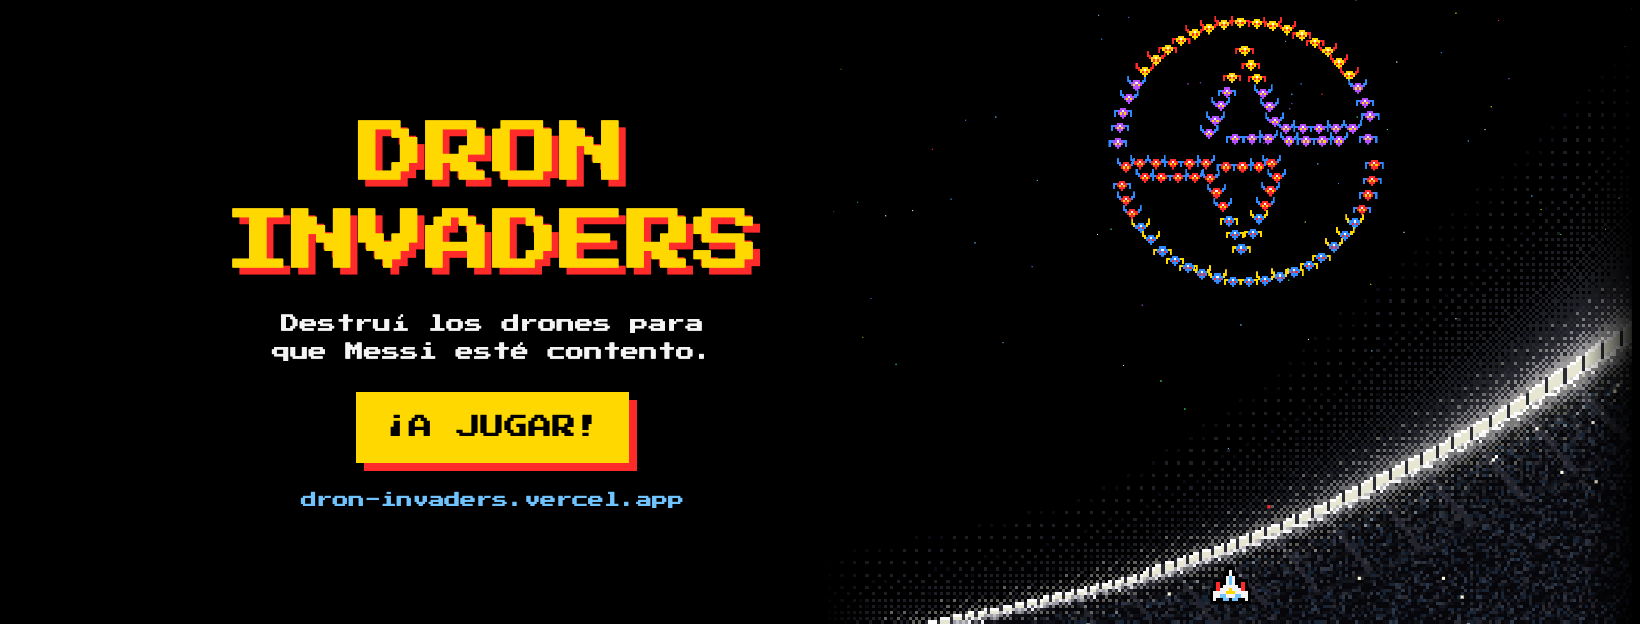
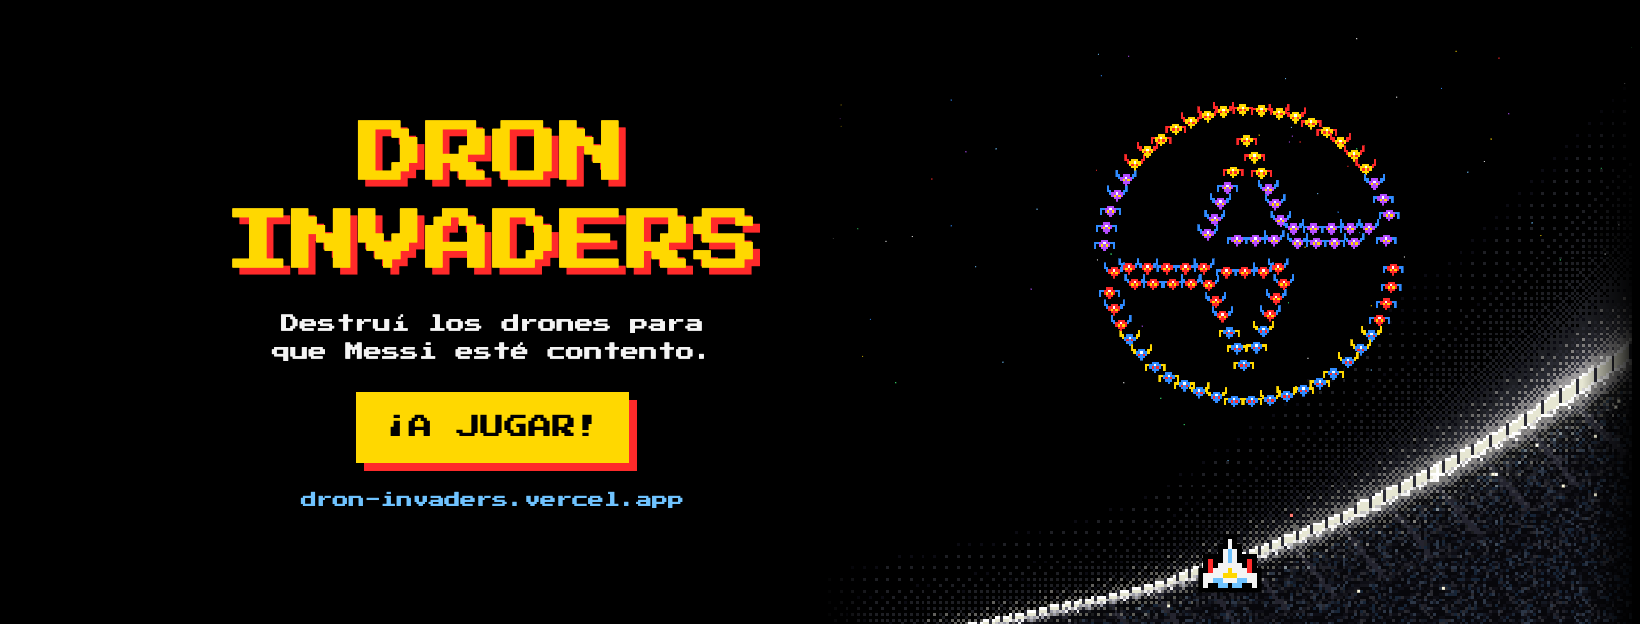
Share images: bigger, lower formation and a more prominent ship
Adds a cover mode to the game (index.html?cover, used only by
tools/covers.html): the formation is drawn 1.2x and 40 px lower, the
player ship at 5x and slightly raised, and the top bar is skipped instead
of cropped. Normal play is unchanged. Images regenerated.

Changed region(s): [[0.5287, 0.0304, 0.9951, 1.0], [0.6841, 0.5176, 0.7152, 0.609]]

diff --git a/index.html b/index.html
@@ -469,6 +469,9 @@ function updParts(dt){parts.forEach(p=>{p.x+=p.vx*dt;p.y+=p.vy*dt;if(!p.txt){p.v
 
 /* ---------- Draw ---------- */
 const R=Math.round;
+// cover mode (?cover, used only by tools/covers.html for the share images): formation bigger and lower, ship bigger, no HUD
+const COVER=new URLSearchParams(location.search).has('cover');
+const CV={k:1.2,dy:40,ship:5,shipDy:-26};
 function spr(img,x,y,s=1){ctx.drawImage(img,R(x-img.width*s/2),R(y-img.height*s/2),img.width*s,img.height*s)}
 function txt(s,x,y,col,align='left'){ctx.fillStyle=col;ctx.textAlign=align;ctx.fillText(s,R(x),R(y))}
 function render(){
@@ -490,12 +493,14 @@ function render(){
   for(let i=sparks.length-1;i>=0;i--)if(sparks[i].life<=0)sparks.splice(i,1);
   ctx.globalCompositeOperation='source-over';
   const frame=Math.floor(time*3)%2;
-  for(const d of drones){const f=d.state==='dive'?Math.floor(time*8)%2:(frame+(d.hx>>5))%2;spr(SPR[d.col][f],d.x,d.y,2)}
+  for(const d of drones){const f=d.state==='dive'?Math.floor(time*8)%2:(frame+(d.hx>>5))%2;
+    if(COVER)spr(SPR[d.col][f],W/2+(d.x-W/2)*CV.k,d.y*CV.k+CV.dy,2*CV.k);else spr(SPR[d.col][f],d.x,d.y,2)}
   ctx.font=FONT8;ctx.textBaseline='middle';
   for(const p of parts){if(p.txt){txt(p.txt,p.x,p.y,'#f4f4f4','center');continue}ctx.fillStyle=p.col;ctx.fillRect(R(p.x),R(p.y),2,2)}
   const bf=Math.floor(time*10)%2;for(const b of bombs)spr(BOMB[bf],b.x,b.y,2);
   for(const s of shots)spr(BALL,s.x,s.y);
-  if(player.alive&&!(player.inv>0&&Math.floor(time*12)%2))spr(SHIP_OUT,player.x,PY,SHIP_S);
+  if(player.alive&&!(player.inv>0&&Math.floor(time*12)%2))spr(SHIP_OUT,player.x,COVER?PY+CV.shipDy:PY,COVER?CV.ship:SHIP_S);
+  if(COVER)return;
   // HUD: 1UP · RECORD · VIDAS · NIVEL (no É in the pixel font) — red labels with values underneath
   ctx.textBaseline='top';
   const tw=t=>ctx.measureText(t).width;

diff --git a/tools/covers.html b/tools/covers.html
@@ -5,7 +5,7 @@
 <title>Dron Invaders: covers</title>
 <link rel="stylesheet" href="https://fonts.googleapis.com/css2?family=Press+Start+2P&display=swap">
 <style>
-/* Social images generator: the live game scene (title-screen formation, menus/HUD hidden) beside the logo.
+/* Social images generator: the live game scene in cover mode (index.html?cover: bigger formation and ship, no HUD) beside the logo.
    Open as tools/covers.html?w=1200&h=630 over a local server and screenshot at exactly w x h — see tools/covers.sh */
 :root{--black:#000;--red:#ff2a2a;--yellow:#ffd800;--celeste:#6fc3ff;--white:#f4f4f4;--pixel:"Press Start 2P",monospace}
 html,body{margin:0;background:var(--black);overflow:hidden}
@@ -35,7 +35,7 @@ html,body{margin:0;background:var(--black);overflow:hidden}
 const q=new URLSearchParams(location.search),w=+q.get('w')||1200,h=+q.get('h')||630;
 const cover=document.getElementById('cover'),game=document.getElementById('game'),frame=document.getElementById('frame');
 cover.style.width=w+'px';cover.style.height=h+'px';
-const HUD=40/640; // share of the game's height taken by the top bar, cropped off
+const HUD=0; // the game skips its top bar in cover mode, so nothing to crop
 const wide=w/h>=1.25,header=w/h>=2.5;
 let gw,gh;
 if(wide){gh=h;gw=Math.round(Math.min(h*1.45,w*(header?.5:.56)));cover.classList.add('row')}
@@ -58,7 +58,7 @@ frame.addEventListener('load',()=>{
   for(const id of ['ovStart','btnSound','btnPause','cameo'])d.getElementById(id)?.setAttribute('hidden','');
   const m=d.getElementById('music');if(m){m.muted=true;m.pause()}
 });
-frame.src='../index.html';
+frame.src='../index.html?cover';
 </script>
 </body>
 </html>
